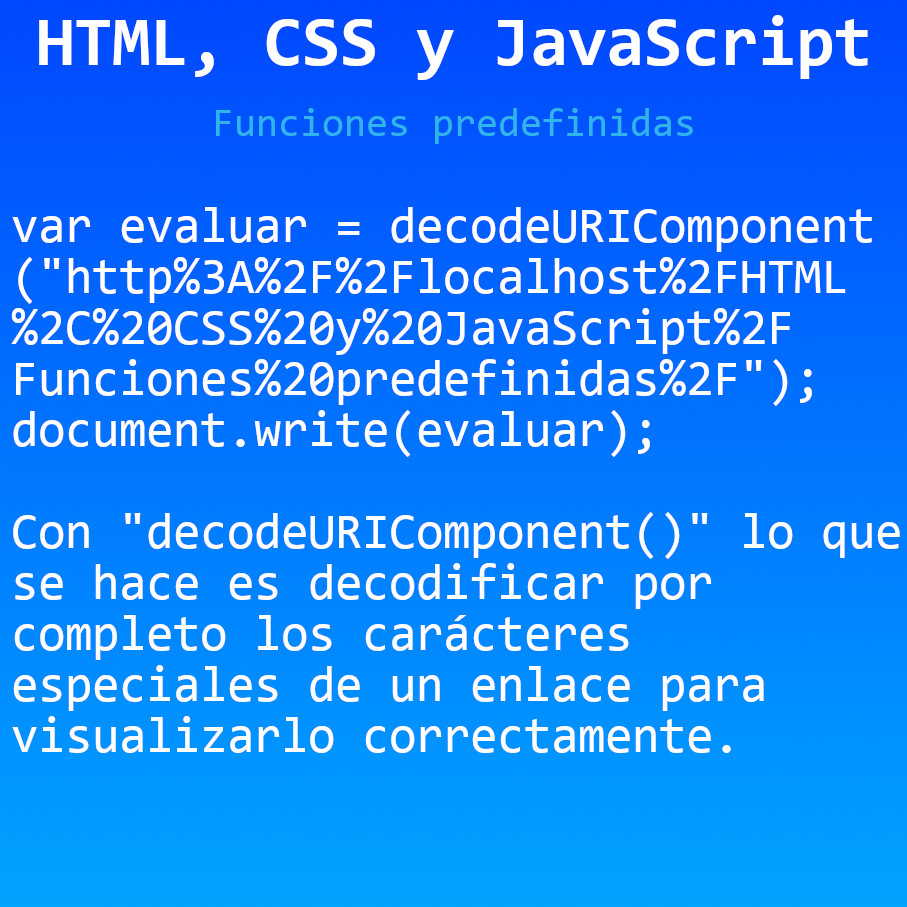
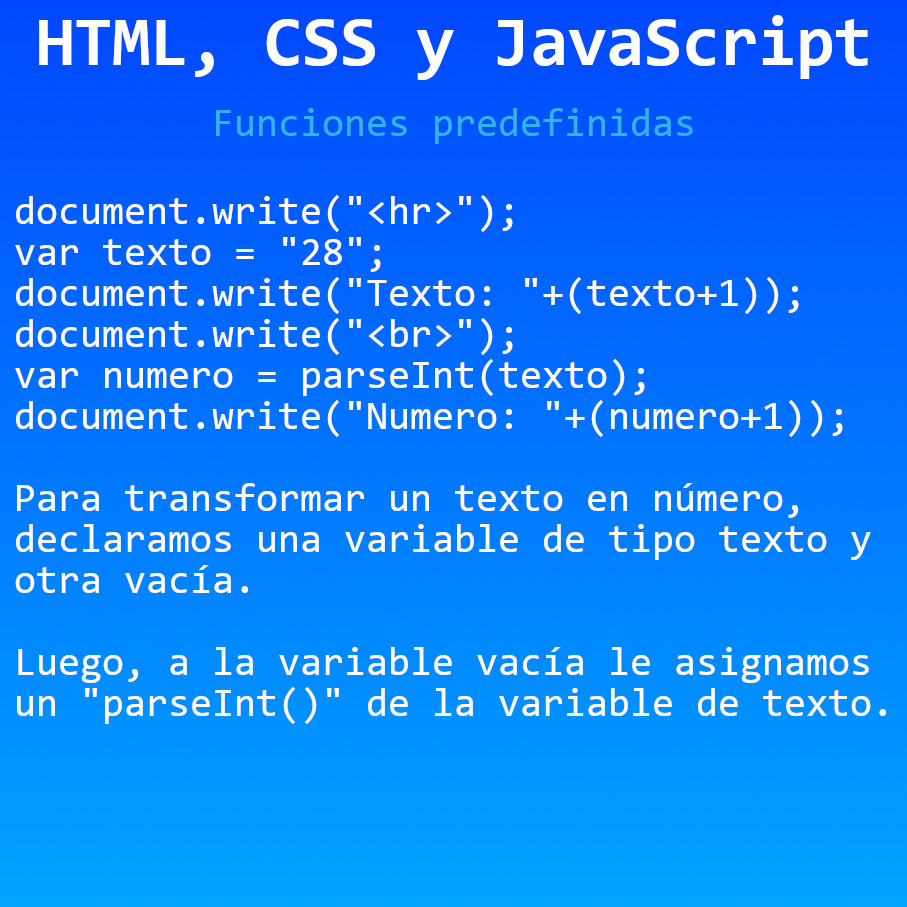
Funciones predefinidas
Funciones predefinidas en JavaScript

Changed region(s): [[0.0, 0.5248, 1.0, 0.8335], [0.0, 0.2161, 0.957, 0.4939]]

diff --git a/HTML, CSS y JavaScript/Funciones predefinidas/js/funciones.js b/HTML, CSS y JavaScript/Funciones predefinidas/js/funciones.js
@@ -10,13 +10,19 @@ document.write("<hr>");
 var evaluar = decodeURI("http://localhost/HTML,%20CSS%20y%20JavaScript/Funciones%20predefinidas/");
 document.write(evaluar);
 document.write("<hr>");
-// DECLARAR VARIABLE
 var evaluar = encodeURIComponent("http://localhost/HTML, CSS y JavaScript/Funciones predefinidas/");
-// MOSTRAR EN PANTALLA
+document.write(evaluar);
+document.write("<hr>");
+var evaluar = decodeURIComponent("http%3A%2F%2Flocalhost%2FHTML%2C%20CSS%20y%20JavaScript%2FFunciones%20predefinidas%2F");
 document.write(evaluar);
 //----------------------
 document.write("<hr>");
 // DECLARAR VARIABLE
-var evaluar = decodeURIComponent("http%3A%2F%2Flocalhost%2FHTML%2C%20CSS%20y%20JavaScript%2FFunciones%20predefinidas%2F");
+var texto = "28";
 // MOSTRAR EN PANTALLA
-document.write(evaluar);
+document.write("Texto: "+(texto+1));
+document.write("<br>");
+// CAMBIAR A NÚMERO
+var numero = parseInt(texto);
+// MOSTRAR EN PANTALLA
+document.write("Numero: "+(numero+1));
